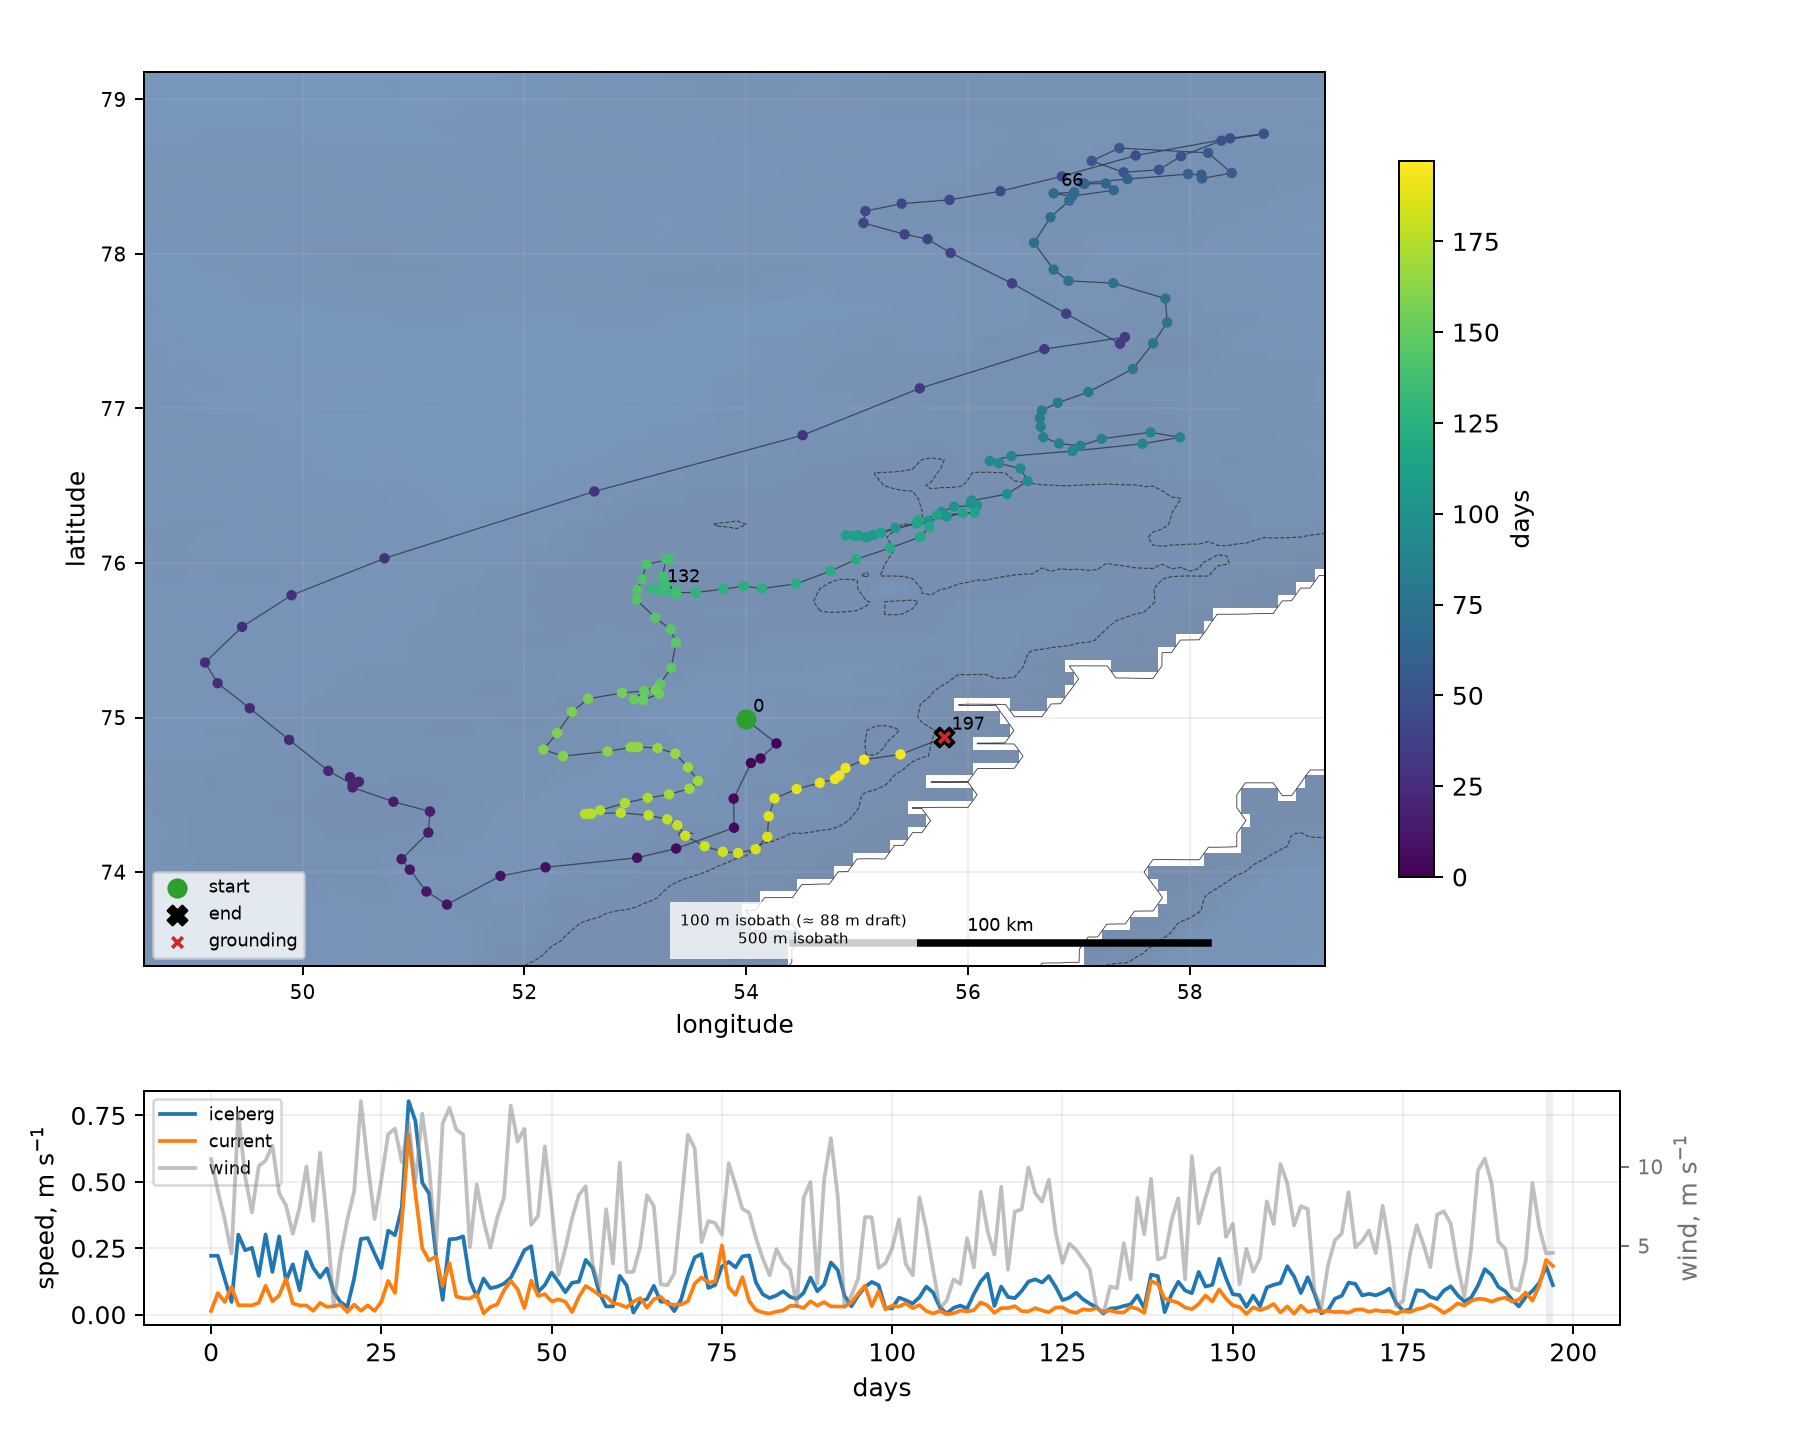
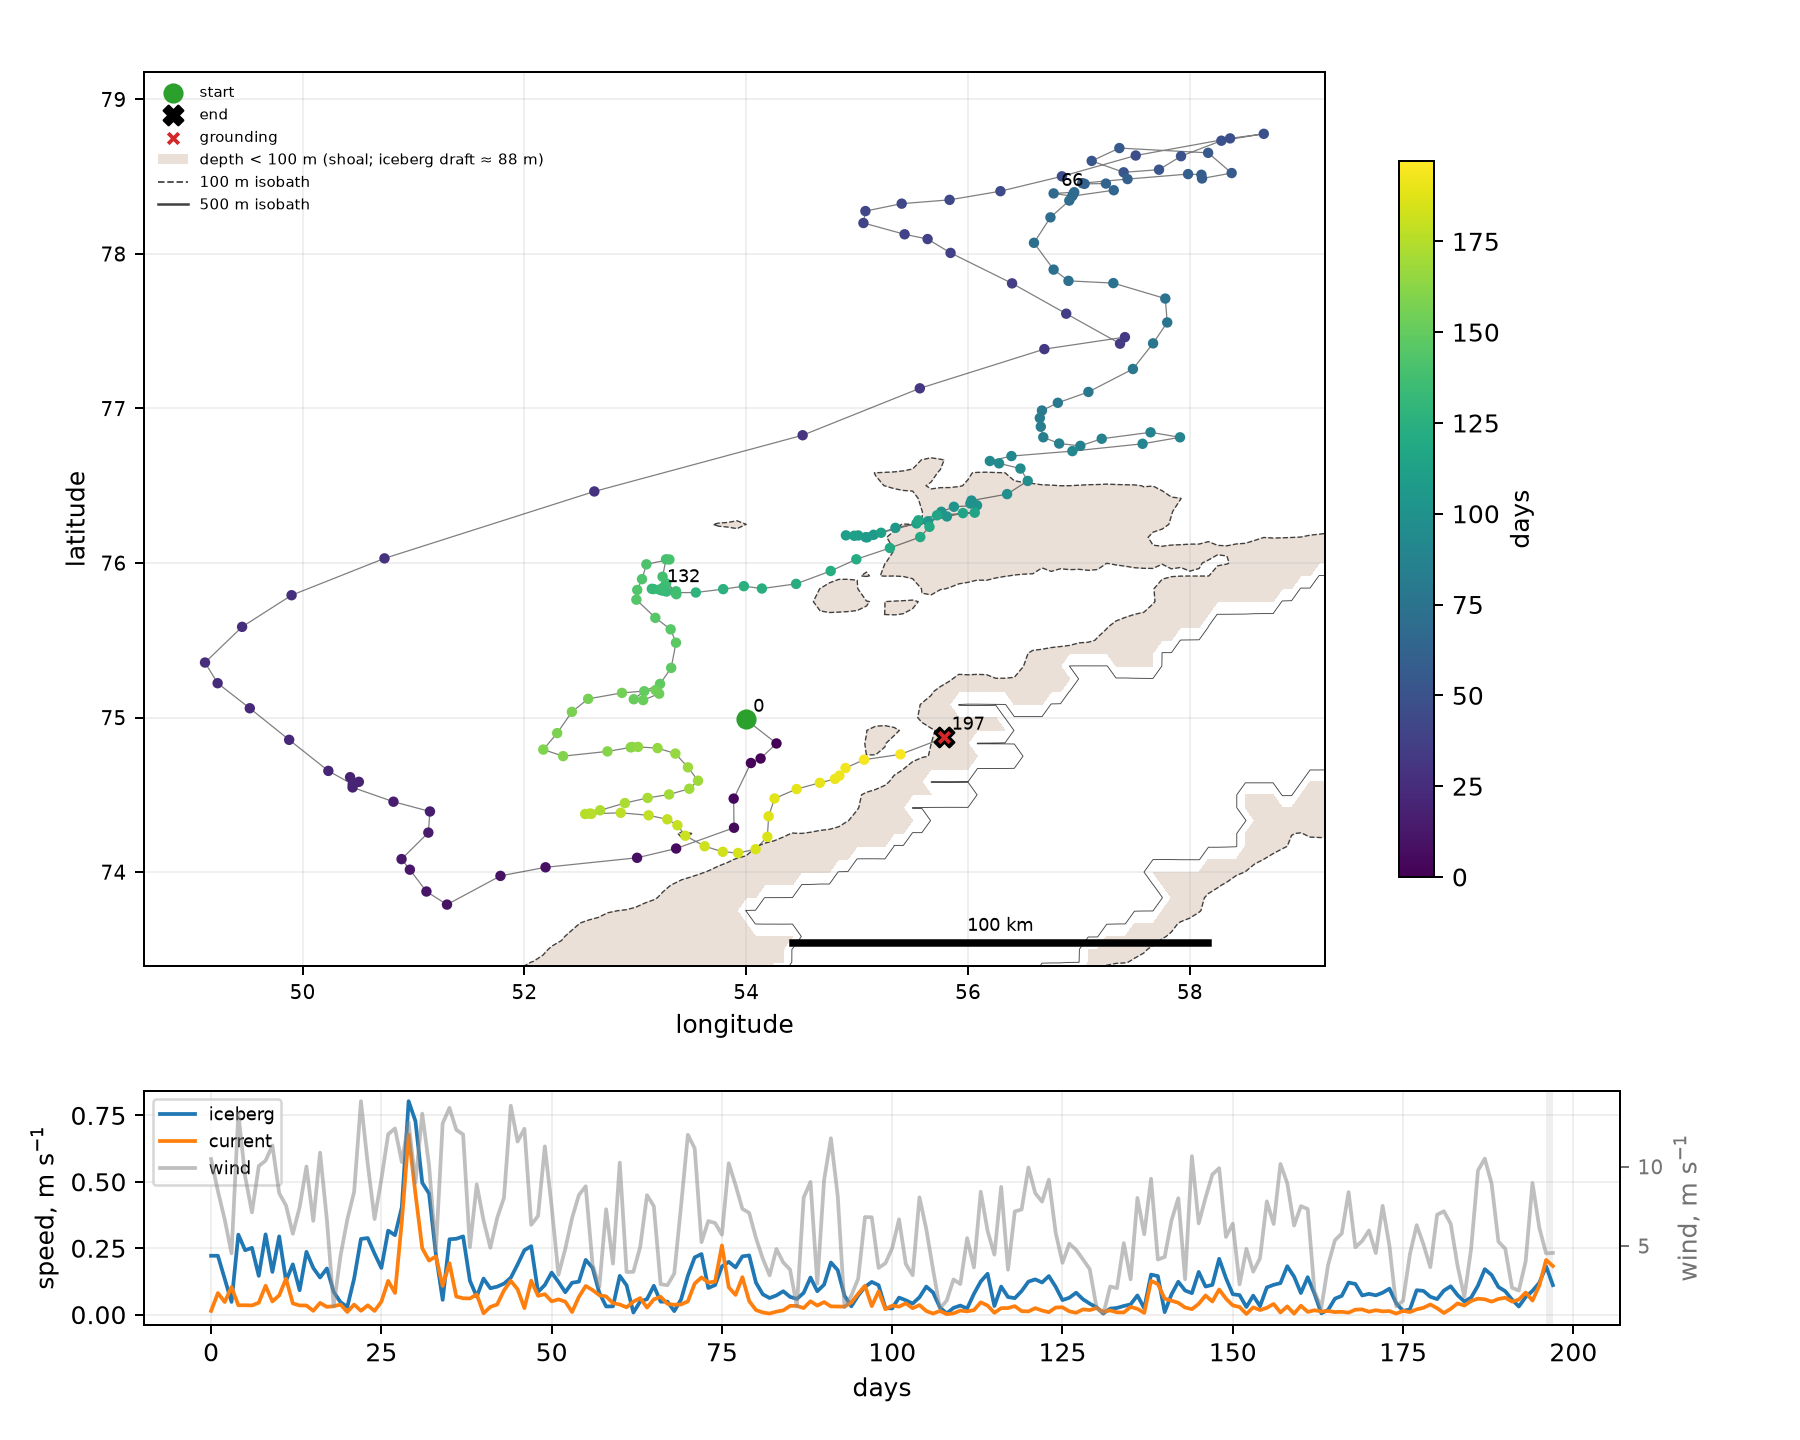
12.20c: remove track/map label artifacts and add shoal key

diff --git a/python/analysis/stage12.20_figures.py b/python/analysis/stage12.20_figures.py
@@ -16,6 +16,7 @@ import matplotlib; matplotlib.use("Agg")
 import matplotlib.pyplot as plt
 from matplotlib import cm, colors
 from matplotlib.lines import Line2D
+from matplotlib.patches import Patch
 from matplotlib.backends.backend_agg import FigureCanvasAgg
 
 RHO_ICE=916.7; K_ICE=2.1; C_ICE=2009.0; STRUCT=generate_binary_structure(3,1)
@@ -135,7 +136,7 @@ def profiles(tag,root,out):
         a.tick_params(axis="x",pad=10,labelsize=7); a.tick_params(axis="y",pad=10,labelsize=7)
     ax[0].set_xlim(-20,2); ax[0].set_xticks([-20,-15,-10,-5,0]); ax[1].set_xlim(0,1)
     fig.subplots_adjust(left=.10,right=.96,bottom=.16,top=.94,wspace=.28)
-    fig.savefig(out,dpi=180); check_png(out); plt.close(fig); print(out)
+    fig.savefig(out,dpi=180); check_png(out); check_text(fig,out); plt.close(fig); print(out)
 
 def series(tag,root,out):
     with xr.open_dataset(Path(root)/"run.nc") as ds:
@@ -235,6 +236,7 @@ def make_track(tag,root,out,static):
         lat=ds.latitude.values[last]; lon=ds.longitude.values[last]; g=ds.grounded.values[last]
         u=np.asarray(ds.ocean_u_draft.values,float)[last]; v=np.asarray(ds.ocean_v_draft.values,float)[last]
         wind=np.hypot(ds.air_u10.values,ds.air_v10.values)[last] if "air_u10" in ds else np.zeros_like(t)
+        mass=ds.mass.values[last]; mass_pct=100.0*mass/mass[0]
         # Displacement speed from the track itself; t is in days.
         dlat=np.deg2rad(np.diff(lat)); dlon=np.deg2rad(np.diff(lon))
         dist=np.hypot(dlat*6371000.0, dlon*6371000.0*np.cos(np.deg2rad((lat[1:]+lat[:-1])/2)))
@@ -244,6 +246,8 @@ def make_track(tag,root,out,static):
         gap=dist>100000.0
         speed_plot=speed.copy()
         speed_plot[1:][gap]=np.nan
+        if mass_pct[-1] < 1.0:
+            speed_plot[-1]=np.nan
         # write the displacement audit next to the track
         audit=pd.DataFrame(dict(run=[tag]*len(dist), start_day=day[:-1], end_day=day[1:],
                                 distance_km=dist/1000.0, speed_m_s=speed_step,
@@ -251,15 +255,11 @@ def make_track(tag,root,out,static):
         audit.to_csv(out.parent/"track_speed_audit.csv", index=False)
     with xr.open_dataset(static) as st: dep=st.deptho.values; glat=st.latitude.values; glon=st.longitude.values
     fig=plt.figure(figsize=(10,8)); gs=fig.add_gridspec(2,1,height_ratios=[4.2,1.1],hspace=.22)
-    ax=fig.add_subplot(gs[0]); z=np.ma.masked_invalid(dep)
-    ax.pcolormesh(glon,glat,z,shading="auto",cmap="Blues_r",alpha=.55)
+    ax=fig.add_subplot(gs[0]); z=np.ma.masked_invalid(dep); ax.set_facecolor("white")
+    ax.contourf(glon,glat,np.ma.masked_invalid(dep),levels=[0,100],colors=["#d9c7b8"],alpha=.55)
     ax.contour(glon,glat,np.nan_to_num(dep,nan=0),levels=[0.5],colors="0.25",linewidths=.35)
-    c100=ax.contour(glon,glat,np.nan_to_num(dep,nan=0),levels=[100],colors="0.25",linestyles="dashed",linewidths=.45)
-    c500=ax.contour(glon,glat,np.nan_to_num(dep,nan=0),levels=[500],colors="0.25",linewidths=.75)
-    ax.clabel(c100,fmt="%d m",fontsize=6,inline=True)
-    ax.clabel(c500,fmt="%d m",fontsize=6,inline=True)
-    ax.text(.55,.02,"100 m isobath (≈ 88 m draft)\n500 m isobath",transform=ax.transAxes,
-            fontsize=6,va="bottom",ha="center",bbox=dict(fc="white",ec="none",alpha=.8))
+    ax.contour(glon,glat,np.nan_to_num(dep,nan=0),levels=[100],colors="0.25",linestyles="dashed",linewidths=.55)
+    ax.contour(glon,glat,np.nan_to_num(dep,nan=0),levels=[500],colors="0.25",linestyles="solid",linewidths=.85)
     sc=ax.scatter(lon,lat,c=day,cmap="viridis",s=10,zorder=3)
     start=0
     for i in range(1,len(lon)):
@@ -276,7 +276,12 @@ def make_track(tag,root,out,static):
         ax.annotate(f"{int(day[k])}",(lon[k],lat[k]),xytext=(3,3),textcoords="offset points",fontsize=7)
     ax.set_xlim(lon.min()-.55,lon.max()+.55); ax.set_ylim(lat.min()-.4,lat.max()+.4); ax.set_aspect("auto")
     ax.set_xlabel("longitude"); ax.set_ylabel("latitude")
-    ax.legend(fontsize=7,loc="lower left"); ax.grid(alpha=.2)
+    handles, labels = ax.get_legend_handles_labels()
+    handles += [Patch(facecolor="#d9c7b8", alpha=.55, label="depth < 100 m (shoal; iceberg draft ≈ 88 m)"),
+                Line2D([0],[0],color="0.25",ls="--",lw=.7,label="100 m isobath"),
+                Line2D([0],[0],color="0.25",ls="-",lw=1.0,label="500 m isobath")]
+    labels += ["depth < 100 m (shoal; iceberg draft ≈ 88 m)", "100 m isobath", "500 m isobath"]
+    ax.legend(handles,labels,fontsize=6,loc="upper left",frameon=False); ax.grid(alpha=.2)
     cb=fig.colorbar(sc,ax=ax,label="days",shrink=.8); ax.tick_params(labelsize=8)
     # 100 km scale bar at lower right
     x0=lon.max()-.5; y0=lat.min()-.25; dlon=100/(111*np.cos(np.deg2rad(np.mean(lat))))
@@ -340,9 +345,10 @@ def overview(figdir,static):
         if "STRICT" in status: return "^","strict ocean",55
         return "s","end",45
     for ax,year in zip(axs,(2020,2024)):
-        ax.pcolormesh(glon,glat,np.ma.masked_invalid(dep),shading="auto",cmap="Blues_r",alpha=.5)
-        c100=ax.contour(glon,glat,np.nan_to_num(dep,nan=0),levels=[100],colors="0.25",linestyles="dashed",linewidths=.45)
-        c500=ax.contour(glon,glat,np.nan_to_num(dep,nan=0),levels=[500],colors="0.25",linewidths=.75)
+        ax.set_facecolor("white")
+        ax.contourf(glon,glat,np.ma.masked_invalid(dep),levels=[0,100],colors=["#d9c7b8"],alpha=.55)
+        ax.contour(glon,glat,np.nan_to_num(dep,nan=0),levels=[100],colors="0.25",linestyles="dashed",linewidths=.55)
+        ax.contour(glon,glat,np.nan_to_num(dep,nan=0),levels=[500],colors="0.25",linewidths=.85)
         # labels on the 100/500 m isobaths are supplied by the common key; automatic
         # labels can collide at the two-panel scale.
         for r,c in zip(rows,colors):
@@ -361,9 +367,11 @@ def overview(figdir,static):
                 Line2D([0],[0],marker="X",linestyle="none",markerfacecolor="k",markeredgecolor="k",markersize=7,label="grounding"),
                 Line2D([0],[0],marker="^",linestyle="none",markerfacecolor="k",markeredgecolor="k",markersize=7,label="strict ocean")]
     labels += ["start","melt-out","grounding","strict ocean"]
-    axs[0].legend(handles,labels,fontsize=7,loc="lower left",framealpha=.95)
-    axs[0].text(.98,.02,"100 m isobath (≈ 88 m draft)\n500 m isobath",transform=axs[0].transAxes,
-                fontsize=6,va="bottom",ha="right",bbox=dict(fc="white",ec="none",alpha=.8))
+    handles += [Patch(facecolor="#d9c7b8", alpha=.55, label="depth < 100 m (shoal; iceberg draft ≈ 88 m)"),
+                Line2D([0],[0],color="0.25",ls="--",lw=.7,label="100 m isobath"),
+                Line2D([0],[0],color="0.25",ls="-",lw=1.0,label="500 m isobath")]
+    labels += ["depth < 100 m (shoal; iceberg draft ≈ 88 m)", "100 m isobath", "500 m isobath"]
+    axs[0].legend(handles,labels,fontsize=6,loc="lower left",frameon=False)
     axs[0].set_ylabel("latitude"); fig.subplots_adjust(left=.07,right=.98,bottom=.09,top=.94,wspace=.04)
     fig.savefig(figdir/"map_2020_2024.png",dpi=180); check_png(figdir/"map_2020_2024.png"); check_text(fig,figdir/"map_2020_2024.png"); plt.close(fig)
     fig,ax=plt.subplots(figsize=(9,5))

diff --git a/python/tests/test_stage12_20_figures.py b/python/tests/test_stage12_20_figures.py
@@ -46,5 +46,20 @@ class Stage1220Layout(unittest.TestCase):
             out = Path(d) / "simple.png"; fig.subplots_adjust(left=.25, right=.75, top=.75, bottom=.25)
             fig.savefig(out); S.check_png(out); S.check_text(fig, out); plt.close(fig)
 
+    def test_no_white_clabel_boxes(self):
+        src = (ROOT / "python/analysis/stage12.20_figures.py").read_text()
+        self.assertNotIn("clabel(", src)
+        self.assertNotIn('bbox=dict(fc="white"', src)
+
+    def test_text_outside_axes_rejected(self):
+        import matplotlib; matplotlib.use("Agg")
+        import matplotlib.pyplot as plt
+        with tempfile.TemporaryDirectory() as d:
+            fig, ax = plt.subplots(figsize=(3, 2)); ax.plot([0, 1], [0, 1])
+            ax.text(1.2, .5, "outside")
+            out = Path(d) / "bad.png"; fig.savefig(out)
+            with self.assertRaises(RuntimeError): S.check_text(fig, out)
+            plt.close(fig)
+
 
 if __name__ == "__main__": unittest.main()

diff --git a/CHANGELOG.md b/CHANGELOG.md
@@ -67,6 +67,7 @@ Full commit list — `git log`.
 | 12.20a | **Final cosmetic figure pass and closure** (2026-11-17): track layout, map stop markers/legend, snapshot thresholds/labels, profile depth/T axes, time-series panel letters; no model rerun; Barents auxiliary table retained. | this commit | `docs/wiki/stages/stage12/stage12.20_phi_conn_and_start_selection.md` |
 | 12.21 | **Forcing/region figures** (2026-11-17): English re-render of 12.20 panels; GLORYS12 maps and sections; profiles; ERA5/GLORYS12 track forcing; BARENTS annual cycle and maps; descriptive statistics; no model runs. | this commit | `docs/wiki/stages/stage12/stage12.21_forcing_figures.md` |
 | 12.21b | **Publication-layout correction** (2026-11-17): fixed 12.20 track speed/gaps, labels; A maps land/isobaths/vectors/scales/tracks; B1/B2 sections and fixed wet columns; V1 split, V2 ocean-only means, V3 vectors/scales; G relative frequency; PDFs removed from git and archived; no model runs. | this commit | `docs/wiki/stages/stage12/stage12.21_forcing_figures.md` |
+| 12.20c | **Track/map cosmetic pass** (2026-11-18): removed white-framed contour-label artifacts, added shoal fill/line-sample key, moved track key clear of tracks/scale, omitted FJL_A_2020 terminal sub-1%-mass speed spike; no model runs. | this commit | `docs/wiki/stages/stage12/stage12.20_phi_conn_and_start_selection.md` |
 | docs  | Housekeeping: Stage 11 evidence JSONs (153) + figures archived to `docs/wiki/stages/stage11/evidence/`; `data/validation/` reserved for Stage 12 + curated `observations/`; `docs/model/` actualized to frozen Stage 11 / active Stage 12 | this commit | `docs/wiki/stages/stage11/README.md` |
 
 ## Stage 11 (ocean stability, CFL, numerical audit — FROZEN research artifact)

diff --git a/docs/wiki/stages/stage12/stage12.20_phi_conn_and_start_selection.md b/docs/wiki/stages/stage12/stage12.20_phi_conn_and_start_selection.md
@@ -174,3 +174,17 @@ the 2771.7 km / 323.8 d path.  Maximum daily displacement and any >100 km/day
 intervals are listed in `figures/stage12.20/final/track_speed_summary.csv` and
 the per-run `track_speed_audit.csv`.  All eight runs have maximum daily
 displacement below 100 km/day, so no gap-induced line break was required.
+
+## Appendix D — track/map cosmetic pass (12.20c)
+
+Removed all inline isobath `clabel` calls from the track and summary maps; the
+white-framed/cropped contour-label artifact is therefore absent. Both maps now
+use a frame-free `Line2D`/`Patch` key (shoal fill, dashed 100 m, solid 500 m),
+with no white key box; the track key is in the upper-left and the 100 km scale
+bar remains lower-right. Shoal water (`depth < 100 m`) is a light grey-brown
+fill keyed as `depth < 100 m (shoal; iceberg draft ≈ 88 m)`; the 100 m line is
+thin dashed and the 500 m line solid. The bathymetric fill was removed from both
+maps because a separate depth colorbar could not fit without crowding; the
+white background and isobaths are retained. For FJL_A_2020 the final speed
+sample (`mass = 0.0012%`, day 323.8) is omitted from the speed panel because it
+is a residual-mass spike, not a physical drift speed; the track itself is kept.
